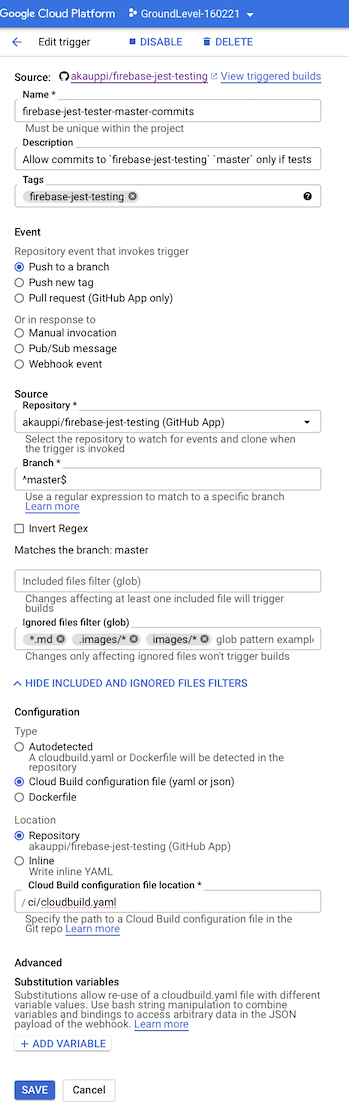
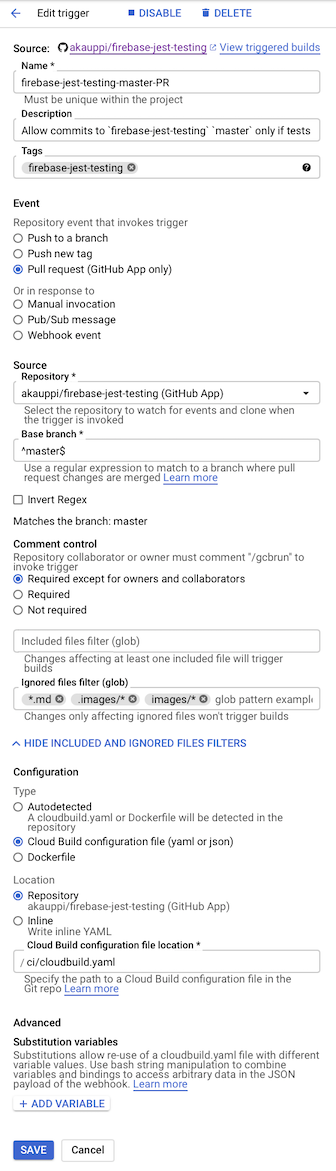
Wrapping up the CI documentation

Changed region(s): [[0.0, 0.0, 1.0, 1.0], [0.8929, 0.7914, 0.9226, 0.8218]]

diff --git a/package/src/firestoreRules/collection.js b/package/src/firestoreRules/collection.js
@@ -41,8 +41,6 @@ function collection(collectionPath) {   // string => { as: ... }
   };
 }
 
-asdasdsa
-
 function documentAs(uid, documentPath) {   // (string, string) => { get, set, delete }
 
   return {

diff --git a/ci/README.md b/ci/README.md
@@ -255,6 +255,18 @@ Check the Issues if you have problems with the tool. Especially [Gets stuck duri
 
 ## Setting up Triggers
 
+We wish the CI to run tests when:
+
+- a new PR (or a change to an existing PR), targeting `master` is available.
+  
+  This will help us see, whether merging the changes is relatively safe.
+
+- someone pushes directly to `master`  
+
+>There are many ways to set up workflows for one's repo, and they are partly matters of taste. Use your own judgement with the repos you own. Eg. you can rule out direct pushes altogether, and require that everything goes through PRs.
+
+### Trigger for PRs
+
 Cloud Build > `Triggers` > `Create Trigger`
 
 Something like this:
@@ -263,18 +275,9 @@ Something like this:
 
 Note: The above is just a sample. Study each choice in turn, and make your own decisions.
 
-## Manual run
+We can test this trigger only by making a PR. 
 
-You can trigger new runs (say, for debugging) by the `Run` button under Cloud Build > `Triggers`:
-
->![](.images/run-trigger.png)
-
-
-## Where are we now?
-
-The CI pipeline is setup up.
-
-### Pull Requests
+#### Testing the trigger
 
 Let's make a Pull Request and see how it shows in GitHub.
 
@@ -316,32 +319,53 @@ Note that the "Merge pull request" button is still available, though not highlig
 >`#help`: The author does not know, how to disallow merges completely. If you do, please let him know.
 
 
-### Manual pushes
+## Manual pushes
 
-Pushing changes to `master` manually should also run the CI, and fail if the tests fail. Let's try it!
+The trigger we created only handles Pull Requests. Let's create another, similar one, to prevent direct pushes to `master` if they were to break the tests.
 
->If you didn't merge the PR above, you can use the same branch.
+Cloud Build > `Triggers` 
+
+Pick your earlier trigger > `⋮` > `duplicate`. 
+
+Edit the new trigger, changing:
+
+- name, e.g. to `firebase-jest-tester-push`
+- description
+- `Event` > `Push to a branch`
+
+### Testing
 
 ```
+$ git checkout master
+```
+
+Make any change to your repo - just adding white space to a `.js` file will do.
+
+```
+$ git commit -m "testing CI"
+$ git push
+```
+
+**Expected:**
+
+- CI would run, and the push only succeed if the tests pass
+
+**Actual:**
+
+- The push doesn't trigger the CI.
+
+><font color=red>Disappointing. What is wrong with the setup??</font>
 
 
+## Manual run
+
+For `Push to a branch` -kind of triggers, there is a `Run` button that allows you to trigger the CI runs, manually. This can be used for debugging the build pipeline.
+
+>![](.images/run-trigger.png)
 
 
-
-## CI/CD
-
-The author's intention is that the following would happen:
-
-- When someone pushes changes to `master` or merges a PR to it - except for documentation images,
-  - `npm test` would need to pass
-
-If the tests fail, such a push would fail.
-
-- When someone creates a PR that targets `master`, and (..same conditions on source as above..),
-  - `npm test` would need to pass
-
-If that fails, creating such a PR would fail.
-
+<!--
+tbd. describe better, merge with what is in 'DEVS.md'?
 
 ## Maintenance
 
@@ -350,27 +374,13 @@ If that fails, creating such a PR would fail.
 So each build you do (at least using the `gcloud builds submit` command) adds to a pile of sources.
 
 Pay it a visit some day.
-
-
-## Sum it up
-
-Setting up the *culture* of CI/CD and a working *delivery pipeline* may be the most important things to do *early on*. It should not be hard, and hopefully this page and folder has made it easy for you.
-
-Once you have the road clear, it's motivating to build the product. CI/CD's job is to *reduce the friction* of shipping working features to your audience, for receiving their feedback, in turn.
-
-That sounds important, right?
-
-Now, go build the product!! 💪🤩🎉
-
-
-
+-->
 
 
 ## References
 
 - [Cloud Build](https://cloud.google.com/build/) (GCP)
 - [Creating GitHub App triggers](https://cloud.google.com/build/docs/automating-builds/create-github-app-triggers) (Cloud Build docs)
-- [Deploying to Firebase](https://cloud.google.com/build/docs/deploying-builds/deploy-firebase) (Cloud Build docs)
 - [Building and debugging locally](https://cloud.google.com/build/docs/build-debug-locally) (Cloud Build docs)
 - `gcloud builds submit --help`
 

diff --git a/DEVS.md b/DEVS.md
@@ -20,7 +20,7 @@ The `rules-test` dataset is intended to be read-only, protected by the locks.
 If - for debugging this code - you ever need to see what the database contents became, just change the `--project` id in the `package.json` to `rules-test`:
 
 ```
-    "start": "firebase emulators:start --project=fns-test --config firebase.json --only functions,firestore",
+    "start": "firebase emulators:start --project=rules-test --config firebase.json --only functions,firestore",
 ```
 
 The default is `fns-test` so that functions tests would work.

diff --git a/ci/DEVS.md b/ci/DEVS.md
@@ -30,6 +30,12 @@ It has a `source/` folder with `.tgz` packages.
 
 If you have problems, check that the packaging is how you'd imagine it to be.
 
+<!-- tbd. Is there something one should do, to help the cleanup (eg. lifecycle settings for the storage bucket?)
+
+### Maintenance
+
+...
+-->
 
 ### Build logs
 
